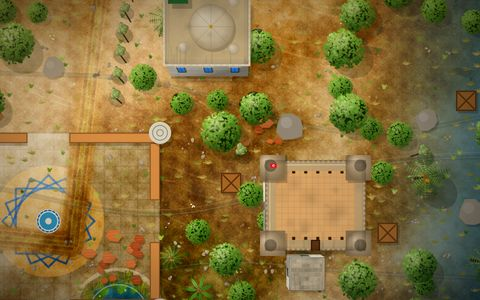
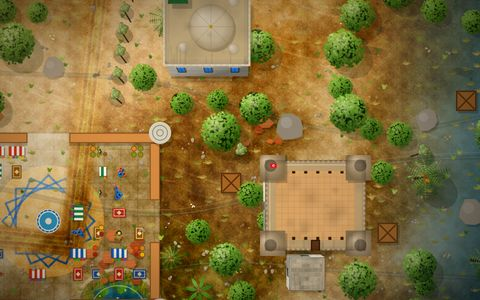
v2.35: carte choisie toujours jouée (Parcours), étapes avec leur vraie carte, nom du joueur à chaque conseil radio, souks des médinas, HUD modernisé
Claude-Session: https://claude.ai/code/session_0193LcvPZAK4DPuHintVfdCC

diff --git a/index.html b/index.html
@@ -1056,7 +1056,7 @@ body.sf3d-battle #sf3dBattle{display:block}body.sf3d-battle #game{visibility:hid
       <p>Taille, opacité et hauteur s'appliquent aux boutons Tirer, Pistolet et actions. La sensibilité règle la course du pouce de visée.</p>
       <div class="row"><button id="qBtn" class="ghost">Qualité : Haute</button><button id="diffBtn" class="ghost">Difficulté : Normale</button><button id="vibBtn" class="ghost">Vibration : activée</button><button id="leftyBtn" class="ghost">Gaucher : non</button><button id="aimBtn" class="ghost">Ligne de visée : courte</button><button id="miniBtn" class="ghost">Mini-carte : normale</button><button id="camBtn" class="ghost">Caméra : cinématique</button><button id="afBtn" class="ghost">Tir auto : non</button><button id="numBtn" class="ghost">Chiffres de dégâts : oui</button><button id="bloodBtn" class="ghost">Sang : oui</button><button id="fpsBtn" class="ghost">Compteur i/s : non</button><button id="oReset" class="ghost">Réinitialiser</button><button id="oTuto" class="ghost">Revoir le tutoriel</button></div>
     </div>
-    <p id="sfVer" style="margin:0;text-align:center;font-size:11px;letter-spacing:.14em;opacity:.55">SEDDIK FIRE · 2.34</p>
+    <p id="sfVer" style="margin:0;text-align:center;font-size:11px;letter-spacing:.14em;opacity:.55">SEDDIK FIRE · 2.35</p>
     <button id="oClose" class="cta">Terminé</button>
   </div>
 </section>
@@ -1741,7 +1741,7 @@ const PLANS={
  gafsa:{cst:[3720,0,1,0,0,1,0,0,1,0],wat:[],lake:[2600,1950,70],
   p:[[2500,1800],[1350,1400],[500,700],[700,1700],[900,2400],[1500,2600],[3000,2500],[2900,700]],
   f:[['medina',2450,1750,480,380,'stone'],['oasis',2700,2050,260],['mine',1350,1400],['mine',500,700],['mine',700,1750],['mine',900,2400],['mountain',1500,2650,360],['oasis',3000,2500,240],['village',2900,700,6],['base',2000,800]]}};
-function planInit(P){MAP.dunes=[];MAP.cst=P.cst;MAP.wat=P.wat||[];MAP.isl=P.isl||[];if(P.lake){LAKE.x=P.lake[0];LAKE.y=P.lake[1];LAKE.r=P.lake[2]}LX.mc=[-2000,-2000];LX.heli=[-2000,-2000];PIER.y=-900;PIER.x=-900}
+function planInit(P){MAP.dunes=[];MAP.medinas=[];MAP.cst=P.cst;MAP.wat=P.wat||[];MAP.isl=P.isl||[];if(P.lake){LAKE.x=P.lake[0];LAKE.y=P.lake[1];LAKE.r=P.lake[2]}LX.mc=[-2000,-2000];LX.heli=[-2000,-2000];PIER.y=-900;PIER.x=-900}
 function waterAt(x,y){const M=MAP;if(M&&M.isl)for(const e of M.isl)if(((x-e.x)/e.rx)**2+((y-e.y)/e.ry)**2<1)return false;if(M&&M.wat)for(const e of M.wat)if(((x-e.x)/e.rx)**2+((y-e.y)/e.ry)**2<1)return true;return false}
 function buildPlan(P){planInit(P);PAVED.length=0;const grz=[];
   const X=(x,y)=>x<0?coastX(y)+x:x;const rnd=(a,b)=>sr(a,b);
@@ -1749,7 +1749,7 @@ function buildPlan(P){planInit(P);PAVED.length=0;const grz=[];
   const house=(cx,cy,R,st,lab)=>{for(let t=0;t<30;t++){const w=rnd(120,170),h=rnd(100,130),a=SR()*TAU,d=SR()*R,x=cx+Math.cos(a)*d-w/2,y=cy+Math.sin(a)*d-h/2;if(okR(x,y,w,h,70)){return bld(x,y,w,h,st||'med',rdoors(),lab?{label:lab}:undefined)}}return null};
   const spot=(x,y,w,h)=>{for(let t=0;t<40;t++){const a=t*2.4,d=t?60+t*28:0,nx=x+Math.cos(a)*d,ny=y+Math.sin(a)*d;if(okR(nx-w/2,ny-h/2,w,h,40))return[nx,ny]}return[x,y]};
   const B={
-   medina(x,y,W,H,kind){x=X(x,y);[x,y]=spot(x,y,W+20,H+20);const x0=x-W/2,y0=y-H/2,T2=22,G=90,st=kind==='brick'||kind==='stone'?'ksar':'ksar';
+   medina(x,y,W,H,kind){x=X(x,y);[x,y]=spot(x,y,W+20,H+20);MAP.medinas.push([x-W/2,y-H/2,W,H]);const x0=x-W/2,y0=y-H/2,T2=22,G=90,st=kind==='brick'||kind==='stone'?'ksar':'ksar';
      PAVED.push({x:x0,y:y0,w:W,h:H,c:kind==='brick'?'#c99a68':kind==='stone'?'#b9ad94':'#cdb48b',g:36});
      const seg=(sx,sy,len,hz)=>{const m=len/2;if(hz){wall(sx,sy,m-G/2,T2,st);wall(sx+m+G/2,sy,m-G/2,T2,st)}else{wall(sx,sy,T2,m-G/2,st);wall(sx,sy+m+G/2,T2,m-G/2,st)}};
      seg(x0,y0,W,1);seg(x0,y0+H-T2,W,1);seg(x0,y0+T2,H-2*T2,0);seg(x0+W-T2,y0+T2,H-2*T2,0);
@@ -3358,7 +3358,7 @@ function drawDetailCached(x0,y0,x1,y1,z){const k=MAP.id+'|'+Q.lv+'|'+LOWD+'|'+wa
   for(let cy=cy0;cy<=cy1;cy++)for(let cx=cx0;cx<=cx1;cx++){const id=cx+','+cy;let t=DC.m.get(id);
     if(t&&t.sc<sc&&budget>0)t=null;
     if(!t){if(budget<=0)continue;budget--;const c=document.createElement('canvas'),px=Math.ceil(S*sc);c.width=c.height=px;const g=c.getContext('2d'),save=ctx,X=cx*S,Y=cy*S;
-      const qh=Q.hi;ctx=g;Q.hi=true;try{g.setTransform(sc,0,0,sc,-X*sc,-Y*sc);g.beginPath();g.rect(X,Y,S,S);g.clip();mapTint(X,Y,S);if(MAP.charfia)drawCharfia(X-80,Y-80,X+S+80,Y+S+80);drawGroundMacro(X,Y,S);drawBiome(X,Y,S);drawPoiSigns(X,Y,S);drawContactAO(X-60,Y-60,X+S+60,Y+S+60);draw2DSurfaceDetail(X-70,Y-70,X+S+70,Y+S+70);drawGroundDecor(X-40,Y-40,X+S+40,Y+S+40);drawLandmarks(X,Y,X+S,Y+S);drawWorldMicroDetail(X-70,Y-70,X+S+70,Y+S+70);drawTunisianRelief(X-70,Y-70,X+S+70,Y+S+70)}catch(e){console.warn(e)}finally{ctx=save;Q.hi=qh}
+      const qh=Q.hi;ctx=g;Q.hi=true;try{g.setTransform(sc,0,0,sc,-X*sc,-Y*sc);g.beginPath();g.rect(X,Y,S,S);g.clip();mapTint(X,Y,S);if(MAP.charfia)drawCharfia(X-80,Y-80,X+S+80,Y+S+80);drawGroundMacro(X,Y,S);drawBiome(X,Y,S);drawSouk(X,Y,S);drawPoiSigns(X,Y,S);drawContactAO(X-60,Y-60,X+S+60,Y+S+60);draw2DSurfaceDetail(X-70,Y-70,X+S+70,Y+S+70);drawGroundDecor(X-40,Y-40,X+S+40,Y+S+40);drawLandmarks(X,Y,X+S,Y+S);drawWorldMicroDetail(X-70,Y-70,X+S+70,Y+S+70);drawTunisianRelief(X-70,Y-70,X+S+70,Y+S+70)}catch(e){console.warn(e)}finally{ctx=save;Q.hi=qh}
       t={c,sc};DC.m.set(id,t);if(DC.m.size>40)DC.m.delete(DC.m.keys().next().value)}
     else{DC.m.delete(id);DC.m.set(id,t)}
     ctx.drawImage(t.c,cx*S,cy*S,S,S)}}
@@ -3437,6 +3437,26 @@ const GRD={sahara:['255,190,110','95,45,10','255,140,60',1.15],tozeur:['255,200,
  cote:['170,215,240','10,35,55','240,190,140',1],seddik:['170,215,235','10,35,50','240,190,140',1]};
 function vnz(x,y,s,k){x/=s;y/=s;const xi=Math.floor(x),yi=Math.floor(y),fx=x-xi,fy=y-yi,h=(a,b)=>{let n=(Math.imul(a,374761393)+Math.imul(b,668265263)+Math.imul(k,1442695041))|0;n=Math.imul(n^(n>>>13),1274126177);return((n^(n>>>16))>>>0)/4294967295},u=fx*fx*(3-2*fx),v=fy*fy*(3-2*fy);
   return (h(xi,yi)*(1-u)+h(xi+1,yi)*u)*(1-v)+(h(xi,yi+1)*(1-u)+h(xi+1,yi+1)*u)*v}
+// souk : étals à auvents rayés, tapis, épices, poteries et lanternes dans les ruelles des médinas
+function drawSouk(X,Y,S){const M=MAP.medinas;if(!M||!M.length)return;const c=ctx;
+  for(const [mx,my,mw,mh] of M){if(mx>X+S||mx+mw<X||my>Y+S||my+mh<Y)continue;const R=mulberry32((mx*13+my*7)|0);
+    for(let gx=mx+40;gx<mx+mw-40;gx+=44)for(let gy=my+40;gy<my+mh-40;gy+=44){const p=R(),q=R(),k=R();if(gx<X-40||gx>X+S+40||gy<Y-40||gy>Y+S+40)continue;if(p>.42)continue;
+      if(bldAt(gx,gy)||bldAt(gx+18,gy)||bldAt(gx-18,gy)||bldAt(gx,gy+14)||bldAt(gx,gy-14))continue;let near=false;for(const o of solids)if(o.t==='c'&&dd2(gx,gy,o.x,o.y)<(o.r+26)**2){near=true;break}if(near)continue;
+      c.save();c.translate(gx,gy);if(q<.5)c.rotate(Math.PI/2);
+      if(k<.42){// étal à auvent rayé
+        const cols=[['#c0392b','#f4efe4'],['#1f7a4d','#f4efe4'],['#1d5fa8','#f4efe4'],['#d9a21a','#7a2f1a']][(R()*4)|0];c.fillStyle='rgba(0,0,0,.25)';c.fillRect(-15,-8,34,22);
+        for(let i=0;i<6;i++){c.fillStyle=cols[i%2];c.fillRect(-17+i*5.6,-11,5.6,20)}c.strokeStyle='rgba(0,0,0,.35)';c.lineWidth=.8;c.strokeRect(-17,-11,33.6,20);
+        for(let i=0;i<5;i++){c.fillStyle=['#e67e22','#c0392b','#f1c40f','#8e44ad','#27ae60'][(R()*5)|0];c.beginPath();c.arc(-13+i*6.5,13,2.6,0,TAU);c.fill()}}
+      else if(k<.6){// tapis kilim
+        c.fillStyle='rgba(0,0,0,.2)';c.fillRect(-12,-8,28,20);c.fillStyle=['#a5322a','#2a4f8a','#8a5a1e'][(R()*3)|0];c.fillRect(-14,-10,28,20);c.strokeStyle='#e8d6a8';c.lineWidth=1.4;c.strokeRect(-11,-7,22,14);c.fillStyle='#e8d6a8';c.beginPath();c.moveTo(0,-5);c.lineTo(5,0);c.lineTo(0,5);c.lineTo(-5,0);c.closePath();c.fill()}
+      else if(k<.76){// paniers d'épices
+        for(let i=0;i<4;i++){const ex=-12+(i%2)*14,ey=-6+Math.floor(i/2)*13;c.fillStyle='#7a5a32';c.beginPath();c.arc(ex,ey,6.2,0,TAU);c.fill();c.fillStyle=['#d9541e','#e8b320','#7a8f2a','#9b2d1f','#c98a3a'][(R()*5)|0];c.beginPath();c.arc(ex,ey,4.6,0,TAU);c.fill()}}
+      else if(k<.9){// poteries de Nabeul et Guellala
+        for(let i=0;i<5;i++){const ex=(R()-.5)*22,ey=(R()-.5)*16,r=3.5+R()*3.5;c.fillStyle='rgba(0,0,0,.22)';c.beginPath();c.arc(ex+1.5,ey+2,r,0,TAU);c.fill();c.fillStyle=R()<.5?'#b9643a':'#2f6aa8';c.beginPath();c.arc(ex,ey,r,0,TAU);c.fill();c.fillStyle='rgba(255,255,255,.3)';c.beginPath();c.arc(ex-r*.3,ey-r*.3,r*.35,0,TAU);c.fill();c.fillStyle='#3a2414';c.beginPath();c.arc(ex,ey,r*.35,0,TAU);c.fill()}}
+      else{// lanterne en fer forgé et pot de géranium
+        c.fillStyle='rgba(0,0,0,.25)';c.beginPath();c.arc(3,4,6,0,TAU);c.fill();c.fillStyle='#2b2b2b';c.beginPath();c.arc(0,0,6,0,TAU);c.fill();c.fillStyle='#ffd36a';c.beginPath();c.arc(0,0,3.4,0,TAU);c.fill();
+        c.fillStyle='#a5532f';c.beginPath();c.arc(14,6,5,0,TAU);c.fill();c.fillStyle='#3f7a3a';c.beginPath();c.arc(14,6,4,0,TAU);c.fill();c.fillStyle='#e0303a';c.beginPath();c.arc(13,5,1.6,0,TAU);c.arc(15.5,7,1.4,0,TAU);c.fill()}
+      c.restore()}}}
 function poiSignPos(p){if(p._sg!==undefined&&p._sgM===MAP.id)return p._sg;p._sgM=MAP.id;p._sg=null;for(let t=0;t<24;t++){const a=t*1.7+.6,d=150+t*14,x=p.x+Math.cos(a)*d,y=p.y+Math.sin(a)*d;if(x<150||y<150||x>WS-150||y>WS-150)continue;let ok=!isWater(x,y)&&!isWater(x+70,y)&&!bldAt(x,y)&&!bldAt(x+70,y-30)&&!bldAt(x-70,y-30);if(ok)for(const c of solids)if(c.t==='c'&&dd2(x,y,c.x,c.y)<(c.r+40)**2){ok=false;break}if(ok){p._sg=[x,y];break}}return p._sg}
 function drawPoiSigns(X,Y,S){if(game.mode==='lobby')return;const c=ctx;for(const p of POIS){if(!p.n)continue;const q=poiSignPos(p);if(!q)continue;const [x,y]=q;if(x<X-160||x>X+S+160||y<Y-80||y>Y+S+80)continue;
   c.save();c.font='900 15px system-ui,sans-serif';const tw=Math.min(220,c.measureText(p.n).width),w=tw+26,h=30;c.fillStyle='rgba(0,0,0,.28)';c.fillRect(x-w/2+5,y-h-22+6,w,h);
@@ -5959,7 +5979,7 @@ addEventListener('pagehide',()=>saveStats());
 // --- Grille des 50 étapes du Parcours
 function cupGrid(){const box=$('#cupGrid');if(!box)return;const on=stats.mode==='cup';box.hidden=!on;if(!on)return;const best=stats.cupBest|0,cur=stats.stage|0;
   box.innerHTML='<span class="lbl">Étapes du parcours</span><div class="cg">'+STAGES.map((t,i)=>{const lk=i>best,done=i<best;return '<button class="cgb'+(lk?' lk':'')+(done?' ok':'')+(i===cur?' cur':'')+'" data-i="'+i+'" title="'+escH(t.n+' · '+t.difficulty)+'"'+(lk?' disabled':'')+'>'+(i+1)+'</button>'}).join('')+'</div><small class="czn">Touchez une étape débloquée pour la jouer.</small>';
-  box.querySelectorAll('.cgb:not(.lk)').forEach(b=>b.addEventListener('click',()=>{stats.stage=+b.dataset.i;saveStats();setMode('cup')}))}
+  box.querySelectorAll('.cgb:not(.lk)').forEach(b=>b.addEventListener('click',()=>{stats.stage=+b.dataset.i;const sm=STAGES[stats.stage].map;saveStats();setMode('cup');if(MAPS[sm]&&sm!==stats.map)try{setMap(sm)}catch(_){}}))}
 // difficulté croissante : équipement des adversaires selon l'étape
 function cupGear(){if(stats.mode!=='cup')return;const i=stats.stage|0,PR=Object.keys(WEAP).filter(k=>{const c=WEAP[k].cls;return(c==='ar'||c==='smg'||c==='sg'||c==='dmr')&&!WEAP[k].drop});
   for(const e of ents){if(!e.bot)continue;
@@ -5987,7 +6007,7 @@ function radioSay(k,vars,cd,prio){const mode=stats.radio||'voice';if(mode==='off
   if((RAD.cd[k]||-99)>now)return false;if(!prio&&now-RAD.last<4.5)return false;
   const T=RADIO_TXT[LANG]||RADIO_TXT.en;let s=T[k];if(!s)return false;vars=vars||{};
   if(vars.d!=null)s=s.replace('{d}',T.dirs[vars.d]);if(vars.m!=null)s=s.replace('{m}',vars.m);if(vars.n!=null)s=s.replace('{n}',vars.n);
-  {const nm=String(stats.name||'').trim();if(nm&&nm.length<=18&&!/^(joueur|player|soldat)\b/i.test(nm)&&k!=='who'){RAD.nmN=(RAD.nmN||0)+1;if(prio||RAD.nmN%2===1||k==='land'||k==='win')s=LANG==='ar'?nm+'، '+s:nm+', '+(/^(de)$/.test(LANG)?s:s.charAt(0).toLowerCase()+s.slice(1))}}
+  {const pf=(PROFS.list.find(x=>x.id===PROFS.cur)||{}).n,nm=String(stats.name||pf||(player&&player.name)||'').trim();if(nm&&nm.length<=18&&!/^(joueur|player|soldat)\b/i.test(nm)&&k!=='who'){s=LANG==='ar'?nm+'، '+s:nm+', '+(/^(de)$/.test(LANG)?s:s.charAt(0).toLowerCase()+s.slice(1))}}
   RAD.cd[k]=now+(cd||20);RAD.last=now;
   if(!RAD.el){RAD.el=document.createElement('div');RAD.el.id='sfRadio';RAD.el.setAttribute('role','status');RAD.el.setAttribute('aria-live','polite');document.body.appendChild(RAD.el)}
   RAD.el.classList.remove('on');if(k!=='win'&&game.mode==='play')sysFeed('📻 '+T.who+' : '+s,Math.max(3.4,s.length*.07),'radio');RAD.hT=Math.max(3.2,s.length*.065);
@@ -6127,9 +6147,9 @@ function buildCust(){
   mk('#czBag','bag',BAGC,BAG_LV,(c,i)=>c?'<span class="sw" style="--c:'+c+'"></span>':'<span>Aucune</span>')}
 /* ===== modes, missions, succès (lot 3) ===== */
 const STAGES=(()=>{const mp=['seddik','ville','foret','cote','hautes','sahara','djerba','capbon','sousse','tozeur','kef','tunis','tabarka','tataouine','sfax','gabes','bizerte','gafsa'],nm=['Échauffement','Rue de la Médina','Bord de mer','Palmeraie de Chenini','Dunes de Douz','Plateau du Kef','Port de Bizerte','Oasis de Tozeur','Forêt de Tabarka','Vent de Gabès','Marché de Sousse','Crête de Kasserine','Sables de Nefta','Falaise de Carthage','Vallée de Béja','Désert de Tataouine','Ruelles de Hammamet','Mont de Siliana','Chott de Kébili','Phare de Monastir','Steppe de Sbeitla','Cap Bon','Montagne de Jendouba','Mer de Mahdia','Nuit de Matmata','Route de Sfax','Îles Kerkennah','Lac de Bizerte','Djerba la Douce','Ksar Ghilane','Jebel Chambi','Port El Kantaoui','Remparts de Sousse','Grand Erg Oriental','Thuburbo Majus','Dougga','Bulla Regia','Amphithéâtre d’El Jem','Source de Zaghouan','Fort de Kélibia','Côte de Korbous','Forêt d’Aïn Draham','Gafsa la Rouge','Médenine','Plage de Zarzis','Canyon de Tamerza','Oasis de Chebika','Gorges de Midès','Dernier rempart','Finale des champions'];
-  return nm.map((n,i)=>({n,map:mp[i%mp.length],np:Math.min(30,12+Math.round(i*.38)),sk:Math.min(1.25,.62+i*.013),zt:Math.max(.55,1.14-i*.0115),rank:i+1,difficulty:i<10?'Recrue':i<20?'Soldat':i<30?'Vétéran':i<40?'Élite':'Légende',threat:Math.round(10+i*1.8)}))})();
+  const SMAP=['seddik','tunis','cote','gabes','sahara','kef','bizerte','tozeur','tabarka','gabes','sousse','hautes','tozeur','sidibou','hautes','tataouine','hammamet','hautes','sahara','sousse','hautes','capbon','foret','mahdia','gabes','sfax','kerkennah','bizerte','djerba','tataouine','hautes','sousse','sousse','sahara','hautes','kef','foret','mahdia','hautes','capbon','capbon','tabarka','gafsa','tataouine','djerba','tozeur','tozeur','tozeur','galite','ville'];return nm.map((n,i)=>({n,map:SMAP[i]||mp[i%mp.length],np:Math.min(30,12+Math.round(i*.38)),sk:Math.min(1.25,.62+i*.013),zt:Math.max(.55,1.14-i*.0115),rank:i+1,difficulty:i<10?'Recrue':i<20?'Soldat':i<30?'Vétéran':i<40?'Élite':'Légende',threat:Math.round(10+i*1.8)}))})();
 const CUPRW={5:'bottes violettes',10:'lunettes dorées et sac violet',15:'bottes turquoise',20:'la couronne',25:'le sac argenté',30:'la peinture de guerre',35:'les bottes argent',40:'le sac noir',45:'le sac flamme',50:'la couronne de feu et TOUT le contenu débloqué'};
-function cupAdv(){const i=stats.stage|0;stats.cupBest=Math.max(stats.cupBest|0,i+1);const rw=CUPRW[i+1]?' · récompense : '+CUPRW[i+1]:'';if(i>=STAGES.length-1){stats.stage=0;stats.champ=(stats.champ|0)+1;saveStats();try{buildCust()}catch(e){}return 'Champion des '+STAGES.length+' étapes ! Tout est débloqué'+rw}stats.stage=i+1;saveStats();return 'Étape réussie · étape '+(i+2)+' débloquée : '+STAGES[i+1].n+rw}
+function cupAdv(){const i=stats.stage|0;stats.cupBest=Math.max(stats.cupBest|0,i+1);const rw=CUPRW[i+1]?' · récompense : '+CUPRW[i+1]:'';if(STAGES[i+1]&&MAPS[STAGES[i+1].map])stats.map=STAGES[i+1].map;if(i>=STAGES.length-1){stats.stage=0;stats.champ=(stats.champ|0)+1;saveStats();try{buildCust()}catch(e){}return 'Champion des '+STAGES.length+' étapes ! Tout est débloqué'+rw}stats.stage=i+1;saveStats();return 'Étape réussie · étape '+(i+2)+' débloquée : '+STAGES[i+1].n+rw}
 const MODES={
   classic:{n:'Classique',d:'30 joueurs · 1 survivant',np:30,zt:1,xp:1},
   quick:{n:'Rapide',d:'16 joueurs · tempête plus rapide',np:16,zt:.55,xp:.8},
@@ -6137,7 +6157,7 @@ const MODES={
   surv:{n:'Survie',d:'20 joueurs · personne n’a d’arme au départ : fouillez vite',np:20,zt:.8,xp:1.3,bare:1},
   cup:{n:'Parcours',xp:1.3,
     get st(){return STAGES[Math.min(stats.stage|0,STAGES.length-1)]},
-    get np(){return this.st.np},get zt(){return this.st.zt},get sk(){return this.st.sk},get map(){return this.st.map},
+    get np(){return this.st.np},get zt(){return this.st.zt},get sk(){return this.st.sk},get map(){return null},
     get d(){const i=Math.min(stats.stage|0,STAGES.length-1),t=this.st;return 'Étape '+(i+1)+'/'+STAGES.length+' · '+t.difficulty+' · menace '+t.threat+'/100 · '+t.np+' combattants · '+t.n+' · gagnez pour débloquer la suivante'}},
   train:{n:'Entraînement',d:'8 adversaires faibles · tempête lente · XP réduit, sans stats ni missions',np:8,zt:1.7,xp:.25,easy:1,nostat:1}};
 let MDcur=MODES.classic,ZTm=1;
@@ -6156,7 +6176,7 @@ function selMap(){if(!MAPS[stats.map])stats.map='seddik';const M=MODES[stats.mod
 function mapBiome(k){const m=MAPS[k]||{},st=m.like||k;if(['djerba','kerkennah','galite','seddik'].includes(k))return'ÎLE';if(m.gen==='desert'||st==='sahara'||['gafsa'].includes(k))return'DÉSERT';if(m.gen==='city'||st==='ville')return'VILLE';if(m.gen==='forest'||st==='foret')return'FORÊT';if(st==='hautes')return'MONTAGNE';return'CÔTE'}
 function mapHero(){const k=stats.mode&&MODES[stats.mode]&&MODES[stats.mode].map||stats.map,m=MAPS[k];if(!m)return;const im=$('#mapHeroImg');if(!im)return;const src='thumbs/'+k+'.jpg';if(!im.src.endsWith(src)){im.classList.remove('on');im.onload=()=>im.classList.add('on');im.src=src;if(im.complete)im.classList.add('on')}
   $('#mapHeroName').textContent=m.n;$('#mapHeroPoi').textContent=m.poi.length+' lieux · '+m.poi.slice(0,4).join(' · ');$('#mapHeroTag').textContent=mapBiome(k);const c=document.querySelector('#maps .map-card[data-k="'+k+'"]');if(c&&c.parentElement.scrollWidth>c.parentElement.clientWidth){const p=c.parentElement;p.scrollTo({left:c.offsetLeft-p.clientWidth/2+c.clientWidth/2,behavior:reduceMotion?'auto':'smooth'})}}
-function markMap(){if(!MAPS[stats.map])stats.map='seddik';const mm=MAPS[stats.map];try{setTimeout(mapHero,0)}catch(_){}$('#mapD').textContent=(stats.mode==='cup'?'Parcours : la carte dépend de l’étape. ':'')+mm.d+' Villes : '+mm.poi.join(', ')+'.';document.querySelectorAll('#maps .map-card').forEach(b=>b.setAttribute('aria-checked',String(b.dataset.k===stats.map)));setMode(stats.mode)}
+function markMap(){if(!MAPS[stats.map])stats.map='seddik';const mm=MAPS[stats.map];try{setTimeout(mapHero,0)}catch(_){}$('#mapD').textContent=(stats.mode==='cup'?'Parcours : l’étape choisit sa carte, mais vous pouvez en prendre une autre. ':'')+mm.d+' Villes : '+mm.poi.join(', ')+'.';document.querySelectorAll('#maps .map-card').forEach(b=>b.setAttribute('aria-checked',String(b.dataset.k===stats.map)));setMode(stats.mode)}
 function setMap(id){if(!MAPS[id])return;stats.map=id;saveStats();if(id!==MAP.id&&game.mode==='lobby'){const go=()=>{if(stats.map===id&&MAP.id!==id&&game.mode==='lobby'){genWorld(id);tunisify();markMap()}};Promise.race([gcLoad(id),new Promise(r=>setTimeout(r,1200))]).then(go,go)}markMap();const stamp=document.querySelector('.stamp');if(stamp){const M=MODES[stats.mode]||MODES.classic,active=selMap();stamp.textContent=active.n+' · '+M.np+' joueurs · '+(M.team?'équipes':'1 survivant')}}
 const MPOOL=[
   {id:'kills',n:k=>'Éliminez '+k+' adversaires',g:[2,3,5],xp:[120,180,280],key:'kills'},
@@ -6801,6 +6821,25 @@ body.p3 #game{filter:none}
 @media (hover:hover){#lobby #maps .map-card:hover .map-art img{transform:scale(1.07)}}
 @media (max-width:760px){#lobby #maps{grid-auto-columns:minmax(150px,44%)!important;padding:4px 2px 8px!important}}
 @media(prefers-reduced-motion:reduce){#lobby .map-hero img,#lobby .map-hero img.on{transition:opacity .2s;transform:none}}
+
+/* v2.35 — HUD moderne 2026 : panneaux givrés, accents lumineux, chiffres nets (positions inchangées) */
+#hud .count,#hud .zone,#hud .slot,#hud .pist,#hud .vit,#hud .med,#hud .iconbtn,#hud .tresc,#hud .act{background:linear-gradient(155deg,rgba(30,37,49,.7),rgba(8,11,16,.62))!important;border:1px solid rgba(255,255,255,.14)!important;box-shadow:0 10px 24px rgba(0,0,0,.26),inset 0 1px 0 rgba(255,255,255,.14),inset 0 -1px 0 rgba(0,0,0,.25)!important}
+#hud .count,#hud .zone,#hud .slot,#hud .pist,#hud .tresc{border-radius:14px!important}
+#hud .iconbtn,#hud .med{border-radius:15px!important}
+#hud .count b,#hud .zone b,#hud .slot b,#hud .pist b,#hud .vit b{font-variant-numeric:tabular-nums;letter-spacing:.02em;text-shadow:0 1px 8px rgba(0,0,0,.45)}
+#hud .count.k{background:linear-gradient(155deg,rgba(120,30,24,.62),rgba(30,8,8,.6))!important;border-color:rgba(255,120,100,.32)!important}
+#hud .slot.on{border:1.5px solid rgba(255,170,90,.9)!important;box-shadow:0 0 0 3px rgba(255,140,60,.16),0 0 22px rgba(255,130,50,.28),0 10px 24px rgba(0,0,0,.3),inset 0 1px 0 rgba(255,255,255,.16)!important}
+#hud .slot.on::before{content:"";position:absolute;left:10px;right:10px;top:0;height:2px;border-radius:2px;background:linear-gradient(90deg,#ff7a2f,#ffd166)}
+#hud .slot{position:relative}
+#hud .zone{border-color:rgba(120,200,255,.28)!important}
+#hud .fire{background:radial-gradient(circle at 36% 30%,rgba(255,255,255,.28),rgba(255,140,70,.30) 42%,rgba(40,14,6,.58) 75%)!important;border:2px solid rgba(255,196,140,.85)!important;box-shadow:0 0 0 7px rgba(255,140,60,.12),0 0 26px rgba(255,120,40,.32),0 12px 28px rgba(0,0,0,.36),inset 0 2px 0 rgba(255,255,255,.25)!important}
+#hud .fire:active{transform:scale(.95);box-shadow:0 0 0 10px rgba(255,140,60,.2),0 0 36px rgba(255,120,40,.5)!important}
+#hud .iconbtn:active,#hud .med:active,#hud .act:active{transform:scale(.94)}
+#hud .vit{border-radius:16px!important}
+.feed .sys{background:linear-gradient(90deg,rgba(14,19,27,.82) 72%,rgba(14,19,27,.2))!important;border-radius:10px!important;border:1px solid rgba(255,255,255,.08);backdrop-filter:none}
+.feed .sys.radio{box-shadow:inset 3px 0 0 #3ddc97,0 6px 18px rgba(0,0,0,.2)!important;color:#e9fbf1}
+.feed .sys.tip{box-shadow:inset 3px 0 0 #4cc3ff,0 6px 18px rgba(0,0,0,.2)!important}
+@media (pointer:fine){#hud .count,#hud .zone,#hud .slot,#hud .pist,#hud .vit,#hud .iconbtn,#hud .tresc{-webkit-backdrop-filter:blur(10px) saturate(1.25);backdrop-filter:blur(10px) saturate(1.25)}}
 </style>
 </body>
 </html>

diff --git a/sw.js b/sw.js
@@ -1,5 +1,5 @@
 /* Seddik Fire — service worker : le jeu se lance hors ligne après la première ouverture. */
-const VERSION = 'seddik-fire-v234';
+const VERSION = 'seddik-fire-v235';
 const FONTS = 'seddik-fire-fonts';
 const LEGACY_CACHES = ['super-joud-v10'];
 const CORE = [

diff --git a/README.md b/README.md
@@ -1,5 +1,12 @@
 # Seddik Fire
 
+## Nouveautés 2.35 — La carte choisie est toujours celle jouée
+- **Correction** : en mode Parcours, l'étape imposait sa carte et ignorait la carte choisie (l'étape 1 donnait toujours l'Île de Seddik). Désormais la carte choisie est toujours celle jouée, dans tous les modes. Choisir une étape propose sa carte, qu'on peut ensuite changer.
+- **Les 50 étapes ont la carte de leur nom** : Dunes de Douz au Sahara, Mer de Mahdia à Mahdia, Îles Kerkennah à Kerkennah, Gafsa la Rouge à Gafsa…
+- **La radio dit le nom du joueur à chaque conseil** : nom saisi dans le lobby, sinon nom du soldat affiché en jeu.
+- **Souks dans toutes les médinas** : étals à auvents rayés, tapis kilim, paniers d'épices, poteries de Nabeul et Guellala, lanternes et géraniums dans les ruelles.
+- **HUD modernisé** : panneaux givrés, chiffres nets, arme active soulignée d'un liseré lumineux, nouveau bouton de tir, messages de côté plus lisibles.
+
 ## Nouveautés 2.34 — Chaque carte se reconnaît en partie, la radio t'appelle par ton nom
 - **La radio de l'équipe t'appelle par ton prénom** : « Wassim, la zone se referme… », dans toutes les langues, à l'écrit et à la voix (une fois sur deux pour les conseils courants, toujours pour les messages importants).
 - **Panneaux d'entrée bleu et blanc** devant chaque lieu de la carte (Médina de Sousse, Ksar Ouled Soltane, Chott el-Jérid…), posés au sol.
